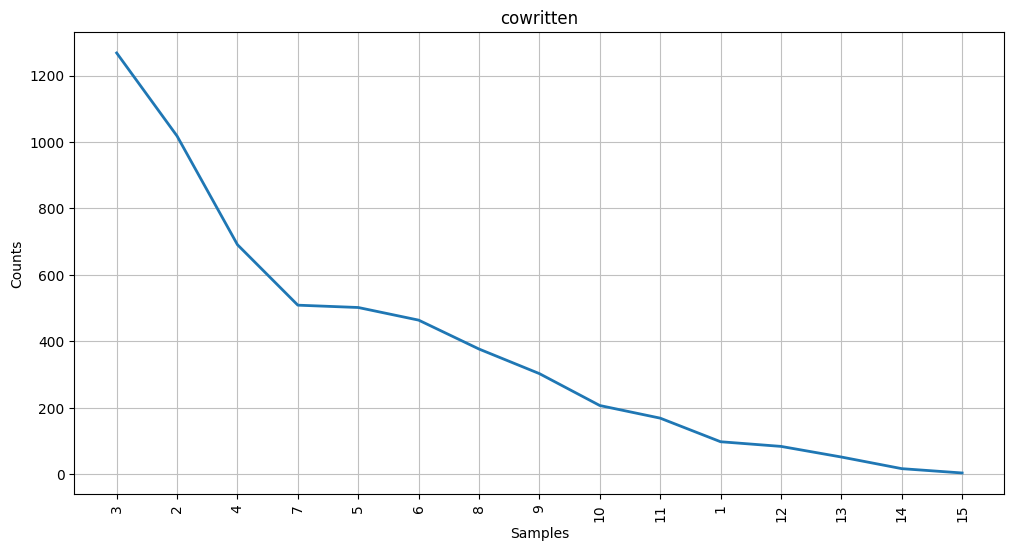
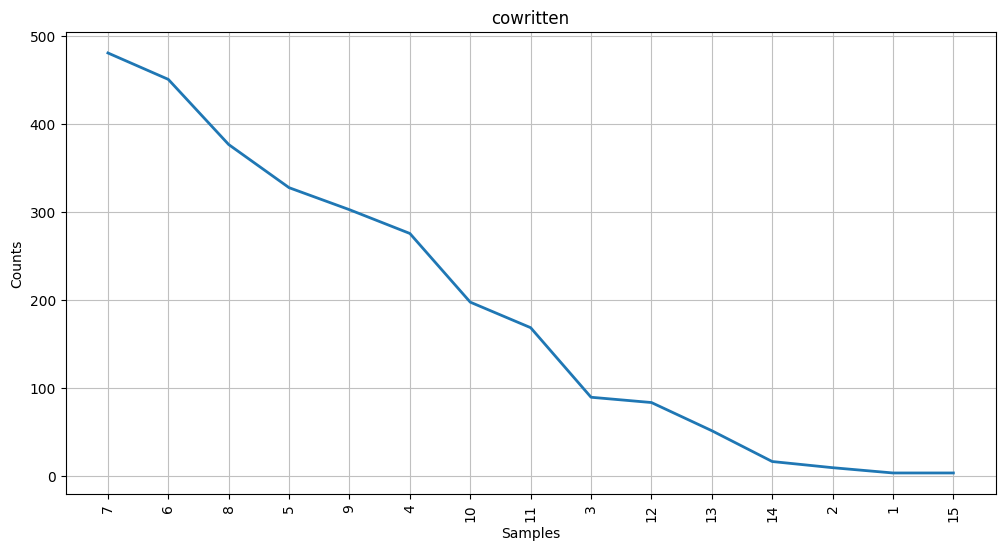
Add Chi-squared test

diff --git a/load_data.py b/load_data.py
@@ -18,6 +18,7 @@ from nltk.tokenize import word_tokenize
 # Constants imports
 from constants import *
 from tools.src.removal import remove_punctuation
+from tools.src.removal import remove_stopwords
 
 
 ### FUNCTIONS
@@ -26,7 +27,7 @@ def combine_files(file_idx):
     """Combine the files matching the given indices
 
     Args:
-        file_idx: an array of file indices
+        file_idx: An array of file indices
     """
     files = []
 
@@ -36,17 +37,18 @@ def combine_files(file_idx):
 
     return "\n".join(files)
 
+
 def sort_files_per_category():
     """Create a dict of the files sorted by category"""
     idx_per_category = {
-        "madison": [10, 14, 37, 38, 39, 40, 41, 42, 43, 44, 45, 46, 47, 48],
-        "hamilton": [1, 6, 7, 8, 9, 11, 12, 13, 15, 16, 17, 21, 22, 23, 24,
-                    25, 26, 27, 28, 29, 30, 31, 32, 33, 34, 35, 36, 59, 60,
-                    61, 65, 66, 67, 68, 69, 70, 71, 72, 73, 74, 75, 76, 77,
-                    78, 79, 80, 81, 82, 83, 84, 85],
-        "jay": [2, 3, 4, 5],
+        "madison":   [10, 14, 37, 38, 39, 40, 41, 42, 43, 44, 45, 46, 47, 48],
+        "hamilton":  [1, 6, 7, 8, 9, 11, 12, 13, 15, 16, 17, 21, 22, 23, 24,
+                      25, 26, 27, 28, 29, 30, 31, 32, 33, 34, 35, 36, 59, 60,
+                      61, 65, 66, 67, 68, 69, 70, 71, 72, 73, 74, 75, 76, 77,
+                      78, 79, 80, 81, 82, 83, 84, 85],
+        "jay":       [2, 3, 4, 5],
         "cowritten": [18, 19, 20],
-        "disputed": [49, 50, 51, 52, 53, 54, 55, 56, 57, 58, 62, 63],
+        "disputed":  [49, 50, 51, 52, 53, 54, 55, 56, 57, 58, 62, 63],
         "specialcase": [64]
     }
     files_per_category = {}
@@ -56,17 +58,19 @@ def sort_files_per_category():
 
     return files_per_category
 
+
 def tokenize_corpus():
     """Tokenize all the corpus"""
     corpus = sort_files_per_category()
     result = {}
 
     for category in CATEGORIES:
-        result[category] = nltk.word_tokenize(
+        tokens = nltk.word_tokenize(
             remove_punctuation(corpus[category]),
             language=CORPUS_LANGUAGE
         )
-        # Remove the number at the beginning of the document
-        result[category] = result[category][1:]
+        tokens = tokens[1:] # Remove the number at the beginning of the document
+        tokens = [token.lower() for token in tokens]
+        result[category] = remove_stopwords(CORPUS_LANGUAGE, tokens)
 
     return result

diff --git a/chisquare.py b/chisquare.py
@@ -1,0 +1,68 @@
+#!/usr/bin/env python3
+# Kilgariff’s Chi-Squared Method
+
+__all__ = ["get_n_frequent_words", "chi_square_test"]
+
+### IMPORT
+
+# Python librairies import
+import nltk
+from nltk.probability import FreqDist
+
+# Utils import
+from constants import CORPUS_LANGUAGE
+
+
+## FUNCTIONS
+
+def get_n_frequent_words(n, corpus):
+    """Get the n most frequent words from a corpus"""
+    fdist = nltk.FreqDist(corpus)
+    frequent_words = fdist.most_common(n)
+    return frequent_words
+
+def calculate_chisquared(n, text_author, text_unknown):
+    """Calculate Chi-Squared to determine the author of an anonymous text
+
+    Args:
+        n: The n most common words between the two texts
+        text_author: Text written by an identified author
+        text_unknown: Anonymous text
+    """
+    chisquared = 0
+    joint_corpus = (text_author + text_unknown)
+    frequent_words = get_n_frequent_words(n, joint_corpus)
+    author_share = (len(text_author) / len(joint_corpus))
+
+    for word,count in frequent_words:
+        # Word occurences
+        author_count = text_author.count(word)
+        anon_count = text_unknown.count(word)
+        # Expected word occurences
+        expected_author_count = count * author_share
+        expected_anon_count = count * (1 - author_share)
+        # Update Chi-squared statistic
+        chisquared += (
+            (author_count - expected_author_count)
+            * (author_count - expected_author_count)
+            / expected_author_count
+        )
+        chisquared += (
+            (anon_count - expected_anon_count)
+            * (anon_count - expected_anon_count)
+            / expected_anon_count
+        )
+
+    return chisquared
+
+
+def chi_square_test(n, hamilton_papers, madison_papers, disputed):
+    """Calculate Chi-Squared to determine the author of the disputed papers.
+       The smallest distance between the disputed papers and one of the authors
+       means the latest is probably the author of the disputed papers.
+    """
+    hamilton_chisquared = calculate_chisquared(n, hamilton_papers, disputed)
+    madison_chisquared = calculate_chisquared(n, madison_papers, disputed)
+
+    print(f"The Chi-squared statistic for Hamilton is {hamilton_chisquared}")
+    print(f"The Chi-squared statistic for Madison is {madison_chisquared}")

diff --git a/main.py b/main.py
@@ -5,17 +5,45 @@
 ### IMPORT
 
 # Utils import
+import sys
+
+# Data utils import
 from load_data import tokenize_corpus
+
+# Analysis functions import
 from word_spectrum import compute_word_spectrum
+from chisquare import chi_square_test
 
 
 ## FUNCTIONS
 
-def main():
-    # Sort and tokenize all the papers
-    corpus = tokenize_corpus()
-    # First approach: Mendenhall’s Characteristic Curves of Composition
-    compute_word_spectrum(corpus)
+def main(argv):
+    if len(argv) != 2 or argv[0] == "-h":
+        print(f"""Usage: python {argv[0]} <number>
+    1: Mendenhall's Characteristic Curves of Composition
+    2: Kilgariff's Chi-Squared Method""")
+
+    elif argv[1] not in "123":
+        print(f"Error: invalid argument.\nTry 'python {argv[0]} -h' for more information.")
+
+    else:
+        # Sort and tokenize all the papers
+        corpus = tokenize_corpus()
+
+        # First approach: Mendenhall's Characteristic Curves of Composition
+        if argv[1] == "1":
+            print("Mendenhall's Characteristic Curves of Composition")
+            compute_word_spectrum(corpus)
+
+        # Second approach: Kilgariff's Chi-Squared Method
+        elif argv[1] == "2":
+            print("Kilgariff's Chi-Squared Method")
+            chi_square_test(500, corpus["hamilton"], corpus["madison"], corpus["disputed"])
+
+        # Third approach: John Burrows' Delta Method
+        #else:
+            #print("John Burrows' Delta Method")
+
 
 if __name__ == "__main__":
-    main()
+    main(sys.argv)

diff --git a/word_spectrum.py b/word_spectrum.py
@@ -10,8 +10,9 @@ import nltk
 from nltk.probability import FreqDist
 import matplotlib.pyplot as plt
 
-# Utils import
-from constants import *
+# Constants import
+from constants import CATEGORIES
+from constants import OUTPUT_DIR
 
 
 ## FUNCTIONS
@@ -20,6 +21,7 @@ def get_word_len_dist(words):
     """Get the distribution of word lengths from a list of words"""
     word_lengths = [len(w) for w in words]
     return FreqDist(word_lengths)
+
 
 def save_graph(fdist, category):
     """Save a graphic representation of the distribution"""
@@ -32,6 +34,7 @@ def save_graph(fdist, category):
     plt.ioff()
 
     print(f"Saved graph in '{filename}'.")
+
 
 def compute_word_spectrum(corpus):
     """Arrange the words using their length and frequency"""
